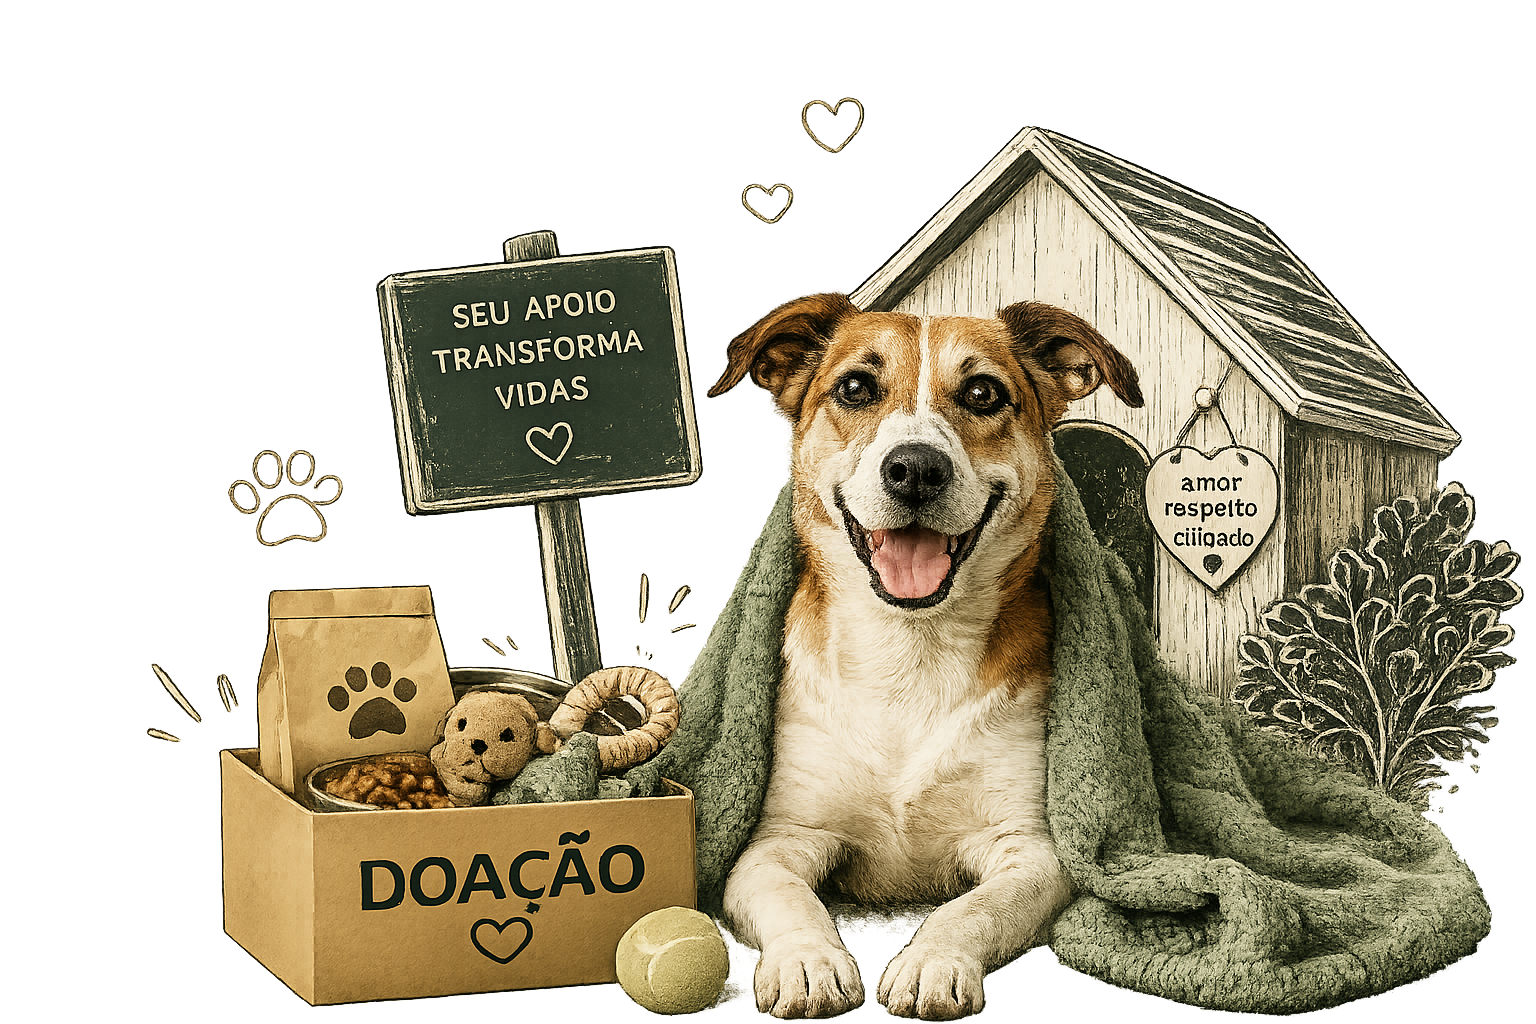
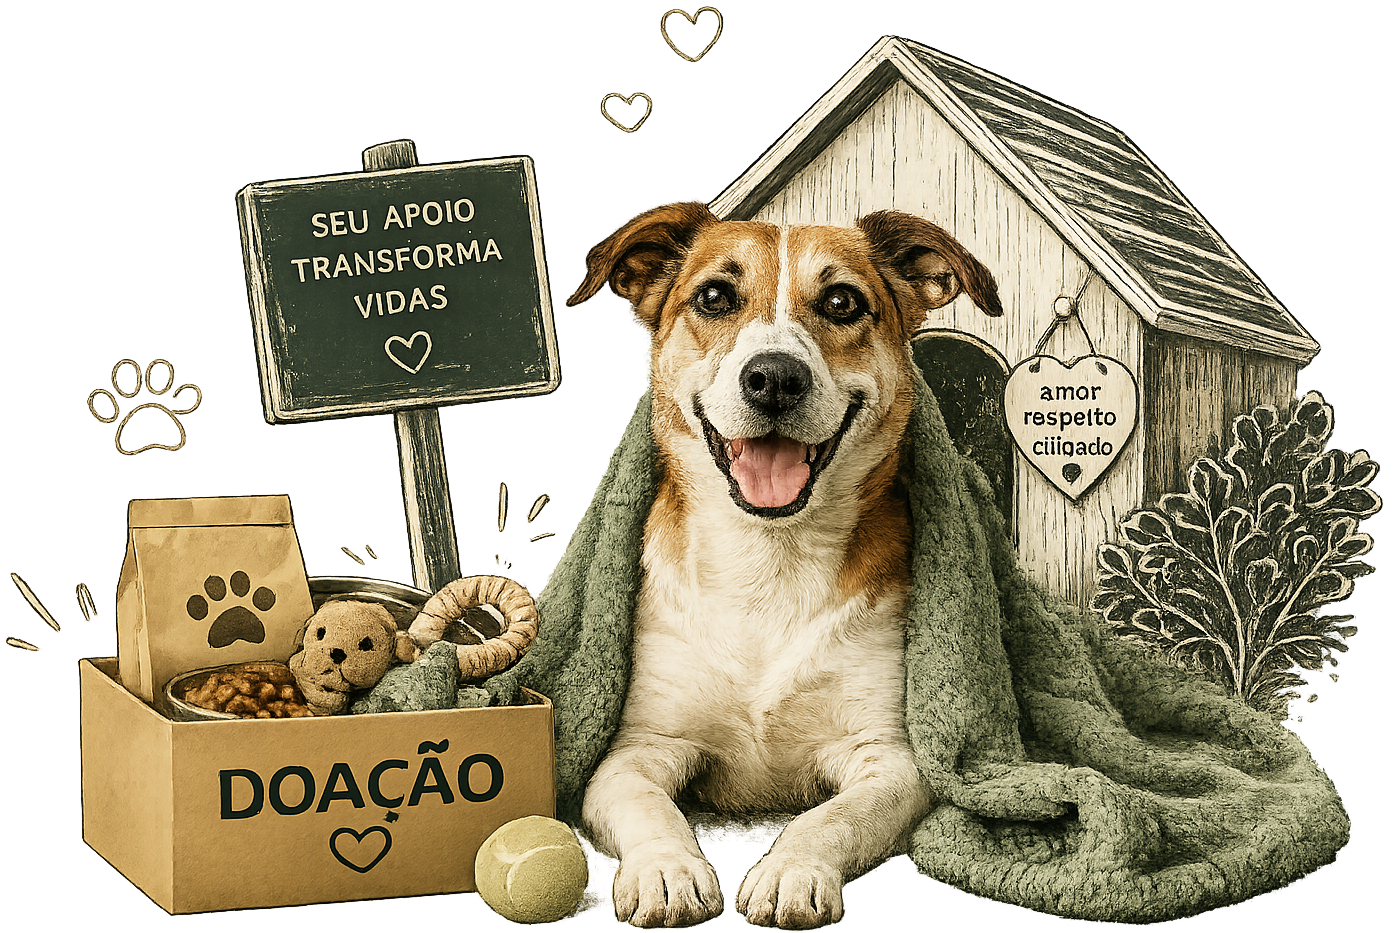
ajustes

diff --git a/index.html b/index.html
@@ -4,7 +4,10 @@
     <meta charset="UTF-8" />
     <meta name="viewport" content="width=device-width, initial-scale=1.0" />
     <title>Associação [NOME] — Adote, Ajude, Transforme</title>
-    <link rel="stylesheet" href="https://cdnjs.cloudflare.com/ajax/libs/font-awesome/6.5.1/css/all.min.css" />
+    <link
+      rel="stylesheet"
+      href="https://cdnjs.cloudflare.com/ajax/libs/font-awesome/6.5.1/css/all.min.css"
+    />
     <meta
       name="description"
       content="Associação de proteção animal em Dois Irmãos. Adote, doe ou seja voluntário."
@@ -21,27 +24,33 @@
   </head>
   <body>
     <header>
-  <div class="container">
-    <nav>
-      <div class="logo">
-        <img src="imagens/logos/animais2.png" alt="Associação Amigos dos Animais de Dois Irmãos" />
-        <span class="logo-texto">
-          <span class="logo-ponto">●</span>Associação Amigos dos Animais
-        </span>
+      <div class="container">
+        <nav>
+          <div class="logo">
+            <img
+              src="imagens/logos/animais2.png"
+              alt="Associação Amigos dos Animais de Dois Irmãos"
+            />
+            <span class="logo-texto">
+              <span class="logo-ponto">●</span>Associação<br
+                class="quebra-mobile"
+              />
+              Amigos dos Animais
+            </span>
+          </div>
+          <ul class="nav-links" id="nav-links">
+            <li><a href="index.html">Início</a></li>
+            <li><a href="index.html#sobre">Sobre</a></li>
+            <li><a href="index.html#adocao">Adoção</a></li>
+            <li><a href="index.html#ajudar">Como ajudar</a></li>
+            <li><a href="index.html#contato">Contato</a></li>
+          </ul>
+          <button id="btn-mobile" aria-label="Abrir menu" aria-expanded="false">
+            <i class="fa-solid fa-bars"></i>
+          </button>
+        </nav>
       </div>
-      <ul class="nav-links" id="nav-links">
-        <li><a href="index.html">Início</a></li>
-        <li><a href="index.html#sobre">Sobre</a></li>
-        <li><a href="index.html#adocao">Adoção</a></li>
-        <li><a href="index.html#ajudar">Como ajudar</a></li>
-        <li><a href="index.html#contato">Contato</a></li>
-      </ul>
-      <button id="btn-mobile" aria-label="Abrir menu" aria-expanded="false">
-        <i class="fa-solid fa-bars"></i>
-      </button>
-    </nav>
-  </div>
-</header>
+    </header>
 
     <section class="hero">
       <div class="container hero-grid">
@@ -79,20 +88,7 @@
       </div>
     </section>
 
-    <section class="faixa-passeio">
-      <div class="container">
-        <p class="faixa-legenda">Cada passeio é um pedacinho de liberdade.</p>
-        <!-- TROCAR: espaço reservado pro seu desenho autoral (pessoa passeando com o cachorro).
-         Pode ser <img src="seu-desenho.png" alt="Ilustração de um passeio com cachorro">
-         Proporção sugerida: 980x220 (ou ajuste o max-width abaixo se seu desenho for outro formato) -->
-        <div class="faixa-placeholder">
-          <img
-            src="imagens/geral/passeio.png"
-            alt="Ilustração de uma pessoa passeando com um cachorro"
-          />
-        </div>
-      </div>
-    </section>
+  
     <section class="sobre" id="sobre">
       <div class="container">
         <span class="eyebrow">Nossa história</span>
@@ -109,6 +105,7 @@
           deixado pra trás. Cada adoção bem-sucedida é uma vitória que nos
           motiva a continuar.
         </p>
+        <img src="imagens/geral/passeio_2.png" class="passeio" alt="">
       </div>
     </section>
 

diff --git a/style.css b/style.css
@@ -157,7 +157,6 @@ nav {
      BOTÃO MOBILE
      ===================== */
 
-
 #btn-mobile {
   display: none;
   background: none;
@@ -181,9 +180,8 @@ nav {
 }
 .hero-grid {
   display: grid;
-  grid-template-columns: 0.9fr 1.1fr;
+  grid-template-columns: 0.8fr 1.1fr;
   align-items: center;
-  gap: 40px;
 }
 .hero-conteudo {
   max-width: 560px;
@@ -200,7 +198,7 @@ nav {
 
 .hero-ilustracao img {
   width: 100%;
-  max-width: 1000px; /* aumenta esse valor pra crescer mais */
+  max-width: 1020px; /* aumenta esse valor pra crescer mais */
   height: auto;
 }
 
@@ -241,8 +239,9 @@ nav {
    SOBRE
    ===================== */
 .sobre {
-  padding: 100px 0;
+  padding: 50px 0;
   text-align: center;
+  background: #fcefcf;
 }
 .sobre h2 {
   font-size: 2.2rem;
@@ -253,6 +252,12 @@ nav {
   max-width: 700px;
   margin: 0 auto 16px;
 }
+
+.passeio {
+  width: 400px;
+  margin: 40px auto 0;
+}
+
 /* =====================
    EQUIPE
    ===================== */
@@ -318,29 +323,6 @@ nav {
   opacity: 0.8;
 }
 
-/* =====================
-     FAIXA ILUSTRADA — cena do passeio
-     ===================== */
-.faixa-passeio {
-  background: var(--creme);
-  padding: 40px 0 70px;
-  overflow: hidden;
-}
-.faixa-passeio .container {
-  text-align: center;
-}
-.faixa-legenda {
-  font-family: var(--fonte-display);
-  font-size: 1.3rem;
-  color: var(--verde-escuro);
-  margin-bottom: 24px;
-}
-
-.faixa-placeholder {
-  width: 100%;
-  max-width: 980px;
-  margin: 0 auto;
-}
 
 /* =====================
      ANIMAIS PARA ADOÇÃO
@@ -668,7 +650,17 @@ footer {
      RESPONSIVO
      ===================== */
 @media (max-width: 860px) {
- 
+    .quebra-mobile {
+    display: block;
+  }
+
+  .logo-texto {
+    font-size: 0.9rem;
+    line-height: 1.2;
+  }
+  .hero {
+    padding-top: 20px; /* reduz esse valor até ficar do jeito que você quer */
+  }
   .logo img {
     height: 40px;
     margin-top: 2px;
@@ -684,7 +676,7 @@ footer {
   .container {
     padding: 0 16px;
   }
-  
+
   .hero-grid {
     grid-template-columns: 1fr;
   }
